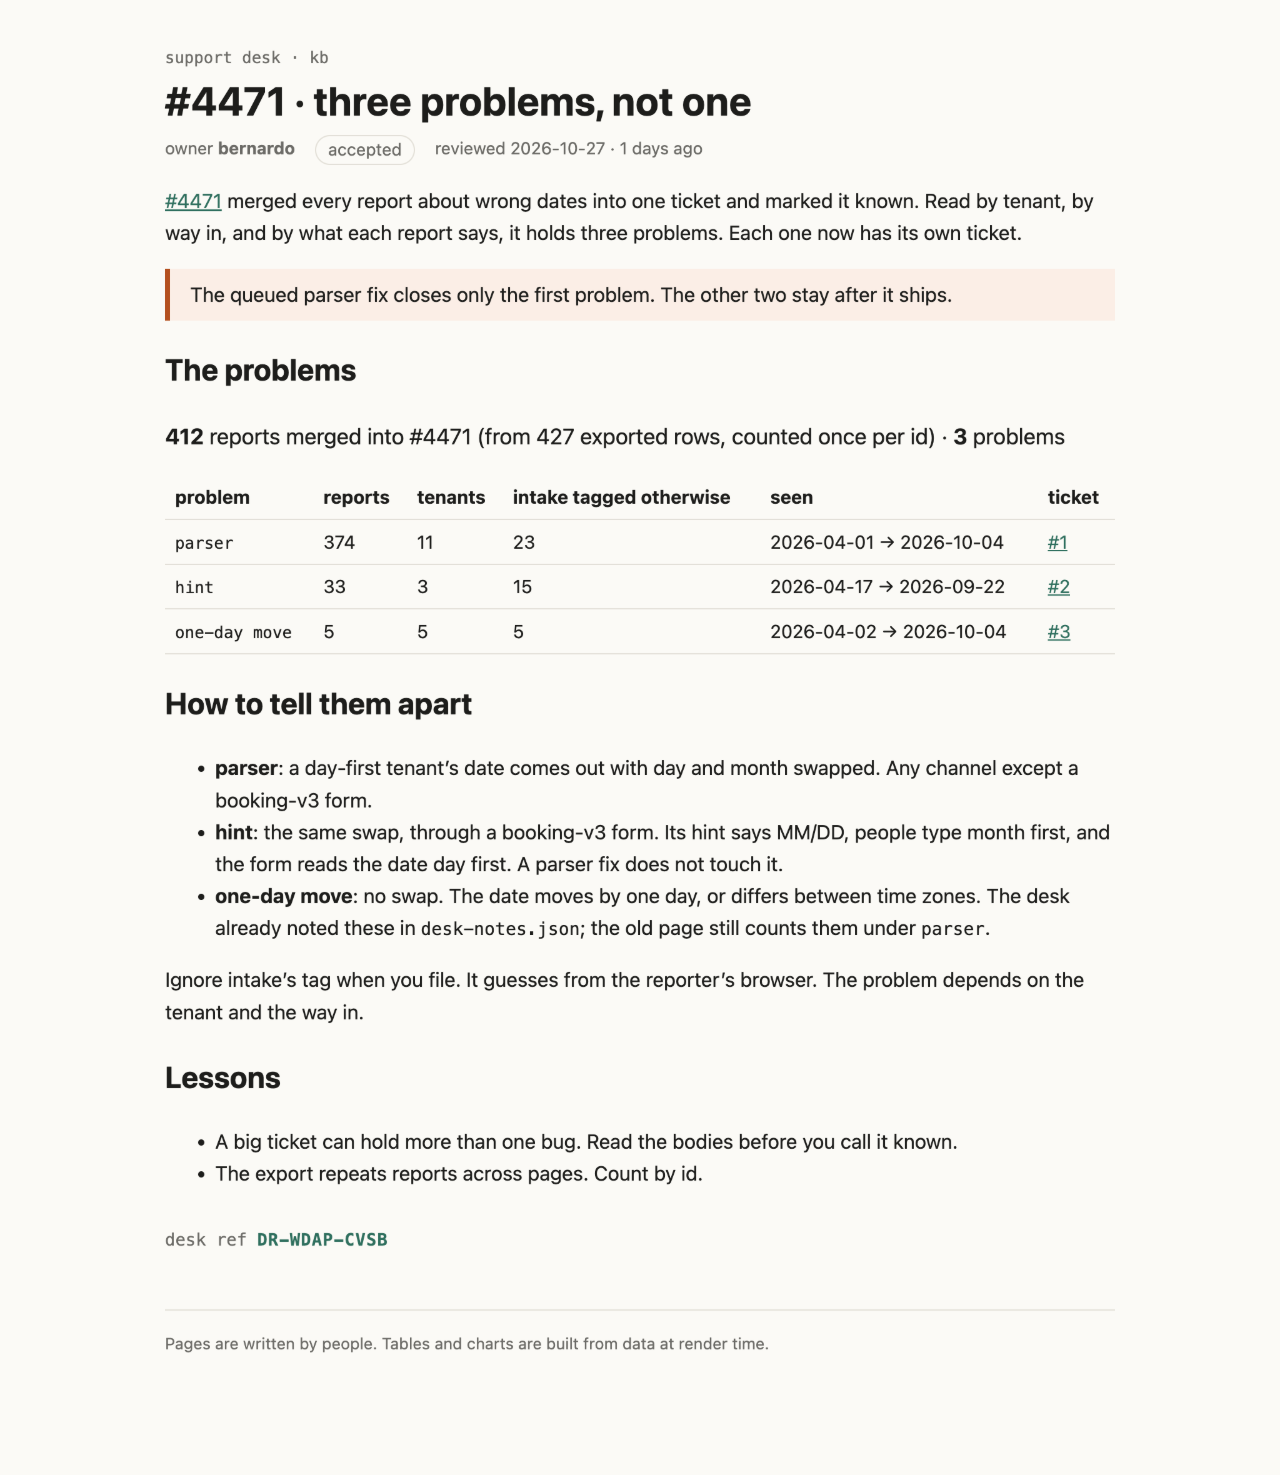
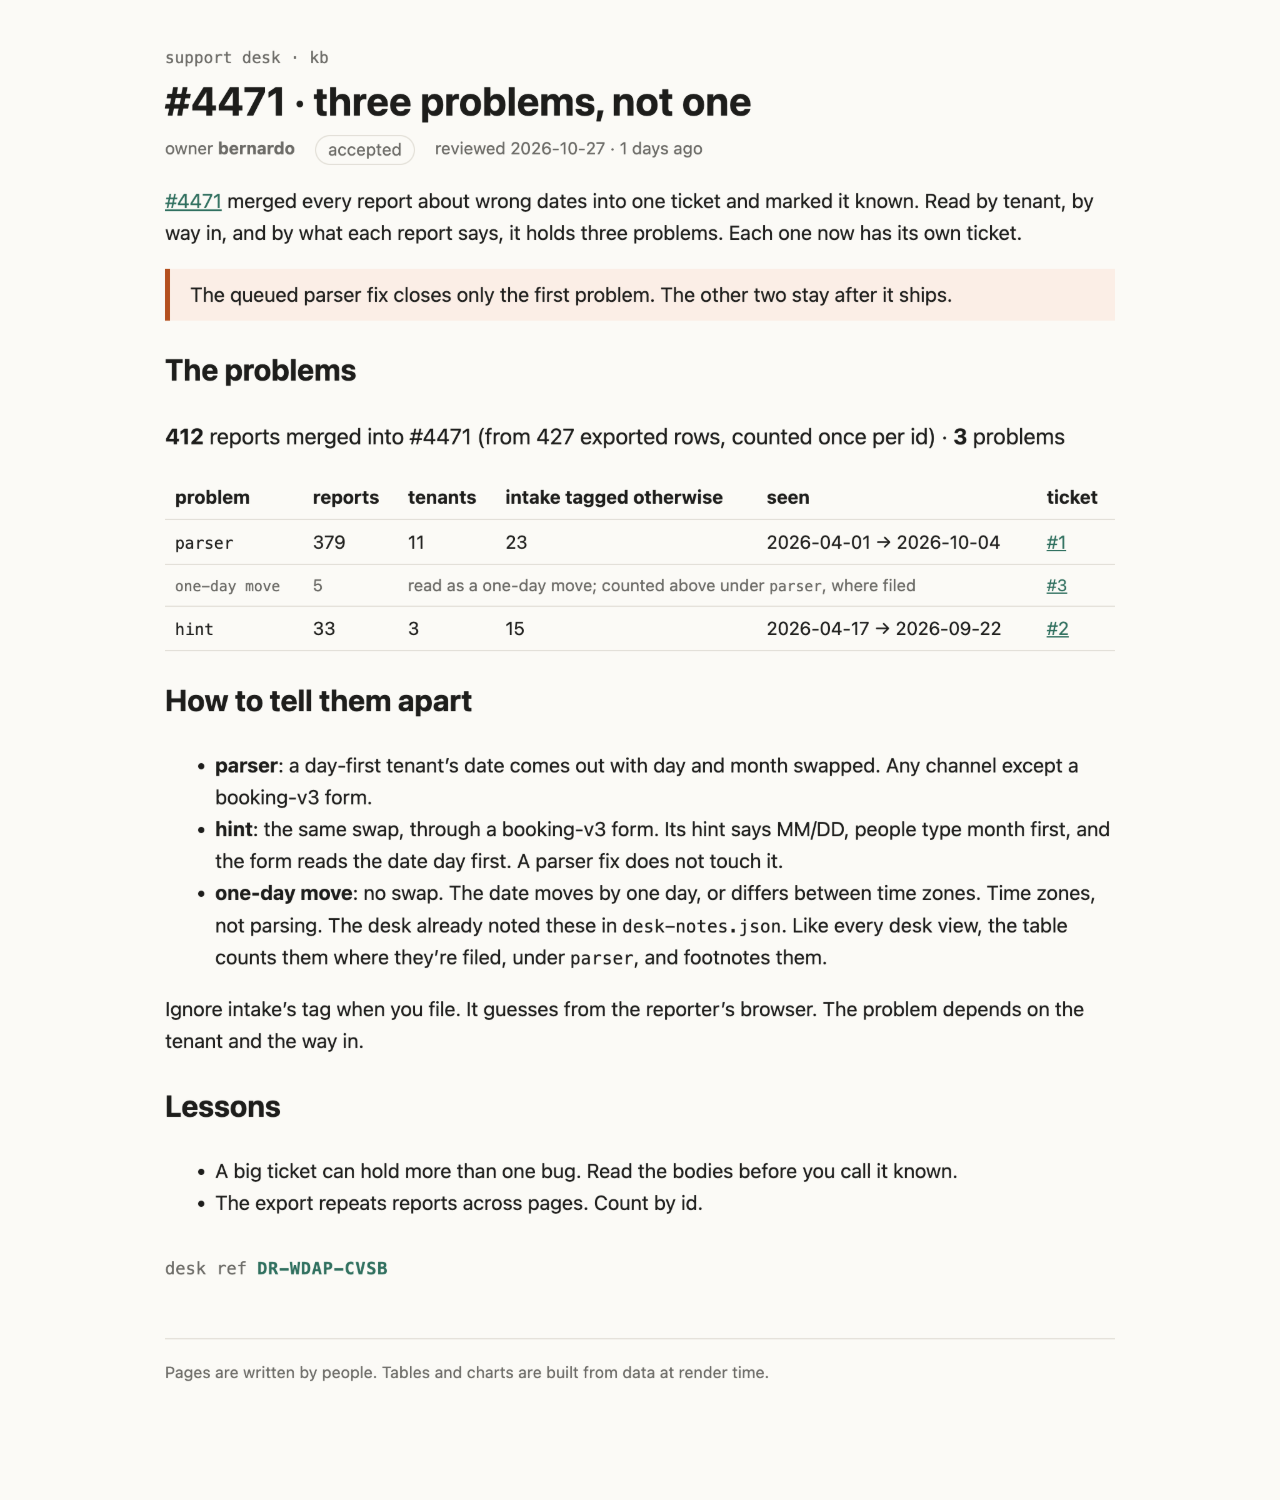
Count one-day moves where the desk files them

Changed region(s): [[0.125, 0.0312, 0.875, 0.8732], [0.125, 0.9044, 0.5938, 0.9356], [0.125, 0.842, 0.1562, 0.8732]]

diff --git a/rendered/4471-split.html b/rendered/4471-split.html
@@ -3,38 +3,23 @@
   <head>
     <meta charset="utf-8" />
     <meta name="viewport" content="width=device-width, initial-scale=1" />
-    
-		
-		
-		
-		
-		
-		
-		
-		
-		
-		
-		
-		
-		
-		<!--e2jw2j--><!----><title>#4471 · three problems, not one · support kb</title>
+		<title>#4471 · three problems, not one · support kb</title>
 		<style>:root{--bg:#fbfaf7;--fg:#1d1d1b;--muted:#6b6a66;--line:#e3e0d8;--accent:#2f6f5e;--warn:#b4501f;--warn-bg:#fbeee6;--note-bg:#eef5f2;--mono:ui-monospace, "Cascadia Code", Menlo, monospace}@media (prefers-color-scheme:dark){:root{--bg:#171716;--fg:#ecebe6;--muted:#9c9a93;--line:#34332f;--accent:#6fbfa6;--warn:#f0905d;--warn-bg:#3a2418;--note-bg:#1d2c27}}body{background:var(--bg);color:var(--fg);margin:0;font:16px/1.6 system-ui,sans-serif}.kb table{border-collapse:collapse;width:100%;margin:1rem 0;font-size:.92rem}.kb th,.kb td{border-bottom:1px solid var(--line);text-align:left;padding:.35rem .5rem}.kb code{font-family:var(--mono);font-size:.88em}.kb a{color:var(--accent)}.kb.svelte-e2jw2j{max-width:760px;margin:0 auto;padding:2rem 16px 4rem}.crumb.svelte-e2jw2j{font:.8rem var(--mono);color:var(--muted);text-decoration:none}h1.svelte-e2jw2j{margin:.25rem 0 .5rem;line-height:1.2}.meta.svelte-e2jw2j{color:var(--muted);flex-wrap:wrap;gap:.5rem 1rem;margin:0;font-size:.85rem;display:flex}.status.svelte-e2jw2j{border:1px solid var(--line);border-radius:99px;padding:0 .6rem}.stale.svelte-e2jw2j{color:var(--warn);font-weight:600}.banner.svelte-e2jw2j{background:var(--warn-bg);color:var(--warn);border-radius:6px;padding:.6rem 1rem}footer.svelte-e2jw2j{color:var(--muted);border-top:1px solid var(--line);margin-top:3rem;padding-top:1rem;font-size:.8rem}
 </style>
 		<style>aside.svelte-17bri61{border-left:4px solid var(--accent);background:var(--note-bg);margin:1rem 0;padding:.5rem 1rem}aside.warn.svelte-17bri61{border-color:var(--warn);background:var(--warn-bg)}
 </style>
-		<style>.sum.svelte-1op6c6{font-size:1.1rem}.stamp.svelte-1280m42{font:.85rem var(--mono);color:var(--muted);margin:2rem 0 0}.stamp.svelte-1280m42 b:where(.svelte-1280m42){color:var(--accent);letter-spacing:.04em}.missing.svelte-1280m42{color:var(--warn)}
+		<style>.sum.svelte-1op6c6{font-size:1.1rem}.moved.svelte-1op6c6 td:where(.svelte-1op6c6){color:var(--muted);font-size:.9em}.stamp.svelte-1280m42{font:.85rem var(--mono);color:var(--muted);margin:2rem 0 0}.stamp.svelte-1280m42 b:where(.svelte-1280m42){color:var(--accent);letter-spacing:.04em}.missing.svelte-1280m42{color:var(--warn)}
 </style>
   </head>
   <body>
-    <div style="display: contents"><!--[--><!--[--><!--[0--><!--[--><!--[--><!--[-1--><!--[--><div class="kb svelte-e2jw2j"><header><a class="crumb svelte-e2jw2j" href="/kb">support desk · kb</a> <h1 class="svelte-e2jw2j">#4471 · three problems, not one</h1> <p class="meta svelte-e2jw2j"><span>owner <b>bernardo</b></span> <span class="status accepted svelte-e2jw2j">accepted</span> <span class="svelte-e2jw2j">reviewed 2026-10-27 · 1 days ago</span></p></header> <!--[-1--><!--]--> <main><p><a href="/kb/incidents/4471">#4471</a> merged every report about wrong dates into one ticket and marked it
+    <div style="display: contents"><div class="kb svelte-e2jw2j"><header><a class="crumb svelte-e2jw2j" href="/kb">support desk · kb</a> <h1 class="svelte-e2jw2j">#4471 · three problems, not one</h1> <p class="meta svelte-e2jw2j"><span>owner <b>bernardo</b></span> <span class="status accepted svelte-e2jw2j">accepted</span> <span class="svelte-e2jw2j">reviewed 2026-10-27 · 1 days ago</span></p></header>  <main><p><a href="/kb/incidents/4471">#4471</a> merged every report about wrong dates into one ticket and marked it
 known. Read by tenant, by way in, and by what each report says, it holds three problems. Each one
-now has its own ticket.</p> <aside class="warn svelte-17bri61"><!---->The queued parser fix closes only the first problem. The other two stay after it ships.<!----></aside><!----> <h2>The problems</h2> <p class="sum svelte-1op6c6"><strong>412</strong> reports merged into #4471 (from 427 exported rows, counted once per id) · <strong>3</strong> problems</p> <table><thead><tr><th>problem</th><th>reports</th><th>tenants</th><th>intake tagged otherwise</th><th>seen</th><th>ticket</th></tr></thead><tbody><!--[--><tr><td><code>parser</code></td><td>374</td><td>11</td><td>23</td><td>2026-04-01 → 2026-10-04</td><td><!--[0--><a href="https://github.com/monopolo11/mega-s01e03-tickets/issues/1">#1</a><!--]--></td></tr><tr><td><code>hint</code></td><td>33</td><td>3</td><td>15</td><td>2026-04-17 → 2026-09-22</td><td><!--[0--><a href="https://github.com/monopolo11/mega-s01e03-tickets/issues/2">#2</a><!--]--></td></tr><tr><td><code>one-day move</code></td><td>5</td><td>5</td><td>5</td><td>2026-04-02 → 2026-10-04</td><td><!--[0--><a href="https://github.com/monopolo11/mega-s01e03-tickets/issues/3">#3</a><!--]--></td></tr><!--]--></tbody></table><!----> <h2>How to tell them apart</h2> <ul><li><strong>parser</strong>: a day-first tenant’s date comes out with day and month swapped. Any channel except a
+now has its own ticket.</p> <aside class="warn svelte-17bri61">The queued parser fix closes only the first problem. The other two stay after it ships.</aside> <h2>The problems</h2> <p class="sum svelte-1op6c6"><strong>412</strong> reports merged into #4471 (from 427 exported rows, counted once per id) · <strong>3</strong> problems</p> <table><thead><tr><th>problem</th><th>reports</th><th>tenants</th><th>intake tagged otherwise</th><th>seen</th><th>ticket</th></tr></thead><tbody><tr><td><code>parser</code></td><td>379</td><td>11</td><td>23</td><td>2026-04-01 → 2026-10-04</td><td><a href="https://github.com/monopolo11/mega-s01e03-tickets/issues/1">#1</a></td></tr> <tr class="moved svelte-1op6c6"><td class="svelte-1op6c6"><code>one-day move</code></td><td class="svelte-1op6c6">5</td><td colspan="3" class="svelte-1op6c6">read as a one-day move; counted above under <code>parser</code>, where filed</td><td class="svelte-1op6c6"><a href="https://github.com/monopolo11/mega-s01e03-tickets/issues/3">#3</a></td></tr><tr><td><code>hint</code></td><td>33</td><td>3</td><td>15</td><td>2026-04-17 → 2026-09-22</td><td><a href="https://github.com/monopolo11/mega-s01e03-tickets/issues/2">#2</a></td></tr> </tbody></table> <h2>How to tell them apart</h2> <ul><li><strong>parser</strong>: a day-first tenant’s date comes out with day and month swapped. Any channel except a
 booking-v3 form.</li> <li><strong>hint</strong>: the same swap, through a booking-v3 form. Its hint says MM/DD, people type month first,
-and the form reads the date day first. A parser fix does not touch it.</li> <li><strong>one-day move</strong>: no swap. The date moves by one day, or differs between time zones. The desk
-already noted these in <code>desk-notes.json</code>; the old page still counts them under <code>parser</code>.</li></ul> <p>Ignore intake’s tag when you file. It guesses from the reporter’s browser. The problem depends on the
-tenant and the way in.</p> <h2>Lessons</h2> <ul><li>A big ticket can hold more than one bug. Read the bodies before you call it known.</li> <li>The export repeats reports across pages. Count by id.</li></ul> <!--[0--><p class="stamp svelte-1280m42">desk ref <b class="svelte-1280m42">DR-WDAP-CVSB</b></p><!--]--><!----><!----></main> <footer class="svelte-e2jw2j">Pages are written by people. Tables and charts are built from data at render time.</footer></div><!--]--><!--]--><!--]--><!----><!--]--><!--]--><!--]--><!----> <!--[-1--><!--]--><!--]-->
-			
-			
+and the form reads the date day first. A parser fix does not touch it.</li> <li><strong>one-day move</strong>: no swap. The date moves by one day, or differs between time zones. Time zones,
+not parsing. The desk already noted these in <code>desk-notes.json</code>. Like every desk view, the table
+counts them where they’re filed, under <code>parser</code>, and footnotes them.</li></ul> <p>Ignore intake’s tag when you file. It guesses from the reporter’s browser. The problem depends on the
+tenant and the way in.</p> <h2>Lessons</h2> <ul><li>A big ticket can hold more than one bug. Read the bodies before you call it known.</li> <li>The export repeats reports across pages. Count by id.</li></ul> <p class="stamp svelte-1280m42">desk ref <b class="svelte-1280m42">DR-WDAP-CVSB</b></p></main> <footer class="svelte-e2jw2j">Pages are written by people. Tables and charts are built from data at render time.</footer></div> 
 		</div>
   </body>
 </html>

diff --git a/src/lib/kb/ProblemTable.svelte b/src/lib/kb/ProblemTable.svelte
@@ -1,22 +1,25 @@
 <script lang="ts">
   import reports from '#lib/data/reports-4471.json';
   import notes from '#lib/data/desk-notes.json';
-  import { uniqueById, type Report } from '#lib/kb/causes';
+  import { groupByCause, readAs, uniqueById, type Report } from '#lib/kb/causes';
   import { tenantOf } from '#lib/kb/locales';
-  import { groupByProblem, PROBLEM_TICKET, TICKETS_REPO } from '#lib/kb/problems';
+  import { PROBLEM_TICKET, ticketUrl } from '#lib/kb/problems';
 
-  // One row per problem in a merged ticket, each linked to its own ticket.
+  // One row per cause in a merged ticket, each linked to its own ticket. One-day moves are counted
+  // where they're filed, like the desk's CauseTable, and get a footnote row with their ticket.
   let { ticket }: { ticket: number } = $props();
 
   const rows = reports as Report[];
   const merged = $derived(uniqueById(rows).filter((r) => r.mergedInto === ticket));
-  const groups = $derived(groupByProblem(merged, tenantOf, notes.oneDayMove));
+  const groups = $derived(groupByCause(merged, tenantOf));
+  const moves = $derived(merged.filter((r) => notes.oneDayMove.includes(r.id)).length);
+  const mistagged = (g: { cause: string; taggedAs: Record<string, number> }) =>
+    Object.entries(g.taggedAs).reduce((n, [tag, k]) => (tag === g.cause ? n : n + k), 0);
 </script>
 
 <p class="sum">
   <strong>{merged.length}</strong> reports merged into #{ticket} (from {rows.length} exported rows, counted once per id) ·
-  <strong>{groups.length}</strong>
-  {groups.length === 1 ? 'problem' : 'problems'}
+  <strong>{groups.length + (moves ? 1 : 0)}</strong> problems
 </p>
 
 <table>
@@ -24,20 +27,29 @@
     <tr><th>problem</th><th>reports</th><th>tenants</th><th>intake tagged otherwise</th><th>seen</th><th>ticket</th></tr>
   </thead>
   <tbody>
-    {#each groups as g (g.problem)}
-      {@const own = PROBLEM_TICKET[g.problem]}
+    {#each groups as g (g.cause)}
+      {@const moved = readAs(g, notes.oneDayMove)}
       <tr>
-        <td><code>{g.problem}</code></td>
+        <td><code>{g.cause}</code></td>
         <td>{g.reports.length}</td>
         <td>{g.tenants}</td>
-        <td>{g.mistagged}</td>
+        <td>{mistagged(g)}</td>
         <td>{g.firstSeen} → {g.lastSeen}</td>
-        <td>{#if own}<a href="{TICKETS_REPO}/issues/{own}">#{own}</a>{:else}none yet{/if}</td>
+        <td>{#if g.cause === 'unplaced'}none yet{:else}<a href={ticketUrl(g.cause)}>#{PROBLEM_TICKET[g.cause]}</a>{/if}</td>
       </tr>
+      {#if moved}
+        <tr class="moved">
+          <td><code>one-day move</code></td>
+          <td>{moved}</td>
+          <td colspan="3">read as a one-day move; counted above under <code>{g.cause}</code>, where filed</td>
+          <td><a href={ticketUrl('one-day move')}>#{PROBLEM_TICKET['one-day move']}</a></td>
+        </tr>
+      {/if}
     {/each}
   </tbody>
 </table>
 
 <style>
   .sum { font-size: 1.1rem; }
+  .moved td { color: var(--muted); font-size: 0.9em; }
 </style>

diff --git a/src/lib/kb/problems.ts b/src/lib/kb/problems.ts
@@ -1,50 +1,12 @@
-// The problems a merged ticket really holds. causes.ts tells `parser` from `hint` by tenant. The
-// desk's one-day moves (desk-notes.json) are neither: no day/month swap, the date moves by one day.
-// They get a problem of their own here instead of being counted under `parser`.
-import { causeOf, type Cause, type Report, type Tenant } from '#lib/kb/causes';
+// The problems #4471 really holds, and the ticket each one got. Counting stays the desk's own
+// (causes.ts): `parser` and `hint` by tenant. The desk's one-day moves (desk-notes.json) are a third
+// problem, but like every desk view they are counted where they're filed and footnoted there.
+import type { Cause } from '#lib/kb/causes';
 
-export type Problem = Cause | 'one-day move' | 'unplaced';
+export type Problem = Cause | 'one-day move';
 
 // Each problem's own ticket, in the repo that split #4471.
 export const TICKETS_REPO = 'https://github.com/monopolo11/mega-s01e03-tickets';
-export const PROBLEM_TICKET: Partial<Record<Problem, number>> = { parser: 1, hint: 2, 'one-day move': 3 };
+export const PROBLEM_TICKET: Record<Problem, number> = { parser: 1, hint: 2, 'one-day move': 3 };
 
-export function problemOf(r: Report, t: Tenant | undefined, oneDayMove: readonly string[]): Problem {
-  if (oneDayMove.includes(r.id)) return 'one-day move';
-  return causeOf(r, t) ?? 'unplaced';
-}
-
-export type ProblemGroup = {
-  problem: Problem;
-  reports: Report[];
-  tenants: number;
-  // Reports intake tagged as something else than this problem.
-  mistagged: number;
-  firstSeen: string;
-  lastSeen: string;
-};
-
-export function groupByProblem(
-  reports: Report[],
-  tenantOf: (r: Report) => Tenant | undefined,
-  oneDayMove: readonly string[],
-): ProblemGroup[] {
-  const byProblem = new Map<Problem, Report[]>();
-  for (const r of reports) {
-    const p = problemOf(r, tenantOf(r), oneDayMove);
-    byProblem.set(p, [...(byProblem.get(p) ?? []), r]);
-  }
-  return [...byProblem.entries()]
-    .map(([problem, rs]) => {
-      const days = rs.map((r) => r.receivedAt.slice(0, 10)).sort();
-      return {
-        problem,
-        reports: rs,
-        tenants: new Set(rs.map((r) => r.tenant)).size,
-        mistagged: rs.filter((r) => r.meta.intakeTag !== problem).length,
-        firstSeen: days[0],
-        lastSeen: days[days.length - 1],
-      };
-    })
-    .sort((a, b) => b.reports.length - a.reports.length);
-}
+export const ticketUrl = (p: Problem) => `${TICKETS_REPO}/issues/${PROBLEM_TICKET[p]}`;
